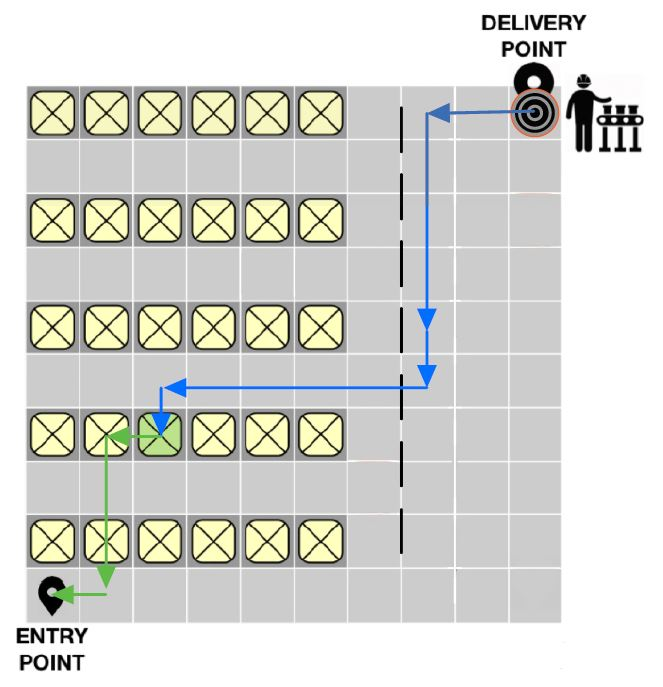
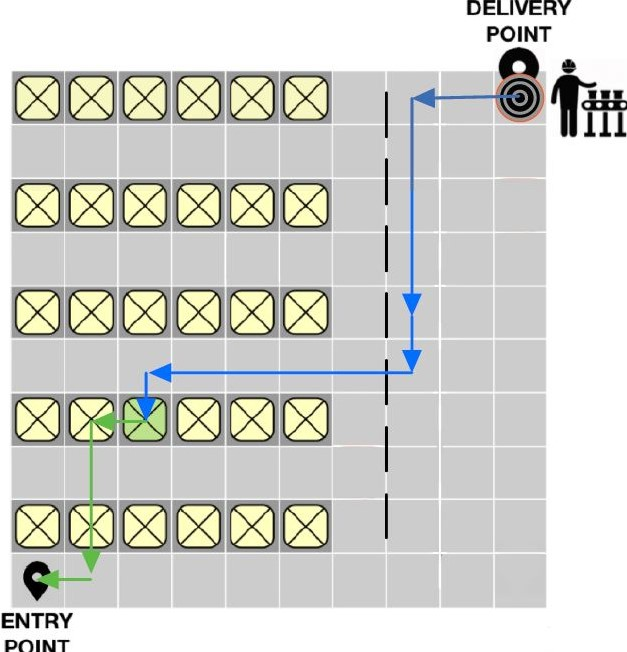
updated report

diff --git a/Report/Report.tex b/Report/Report.tex
@@ -2,6 +2,7 @@
 
 \usepackage{enumitem}
 \usepackage{graphicx}
+\usepackage[bottom]{footmisc}
 
 \title{Stochastic Model Checking of Warehouse Robotics}
 \author{Corti Simone, Ravella Elia, Sarneri Enrico}
@@ -57,12 +58,18 @@
 				\begin{itemize}
 					\item \emph{From entry point to pod position} the bot goes to the lower left corner, reaches the row corresponding to bot one and, at the ene, goes left until it reaches the pod postion.\\This strategy features an \emph{anti-starvation} control to avoid unpredicted deadlocks. After reaching the pod position, the function increases by 1 the int \emph{strategy} and the boolean variable \emph{isLifting} becomes true;
 					\item \emph{From pod position to delivery point} the bot follows a different strategy: after checking if the near row is free, it goes up and then left until it reaches the penultima column. Here, the bot checks wheter the cell to its left is free. If so, it goes to the left and,then, it will go up until it reaches the delivery point; otherwise it goes down and repeats this procedure at the next move.\\This system has been implemented to create an ordered queue of bot to avoid deadlocks in case of many bots inside the grid. Once it reaches the delivery point, the bot send a \emph{podDelivered} message to the human;
-					\begin{figure}
+					\begin{figure}[h]
 						\centering
-						\includegraphics[scale = 0.5]{Images/BotMovement1.JPG}
+						\includegraphics[scale = 0.36]{Images/BotMovement1.JPG}
 						\caption{Example of bot movement between entry and delivery point}
 					\end{figure}
 					\item \emph{From delivery point to pod position} the bot goes right until it reaches the ${(m-2)}^{th}$ column. Then it goes down until it reaches the line before the one it must get in. Here, the bot checks wheter the line is free. If so, it goes to the pod position following a straight path.
+					\item \emph{From pod position to the entry point} the bot moves horizontally until it reaches the column corresponding to the entry point. After that, it goes down until it reaches its destination.\footnote{To avoid possible soft locking situations, in case the entry poitn is on the first column, the bot stops its horizontal movement at the second column, then it goes down, and eventually it moves to the right to reach the entry point.}
+					\begin{figure}[h]
+						\centering
+						\includegraphics[scale = 0.36]{Images/BotMovement2.JPG}
+						\caption{Example of bot movement between delivery and entry point}
+					\end{figure}
 				\end{itemize}
 		
 		\subsection{Queue}
